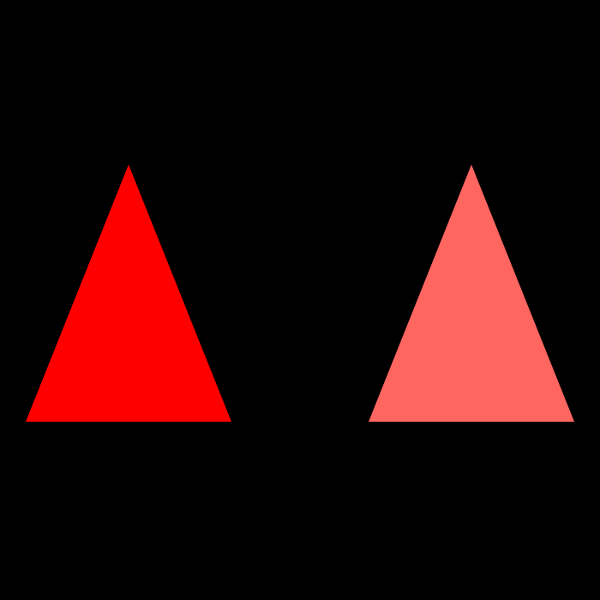
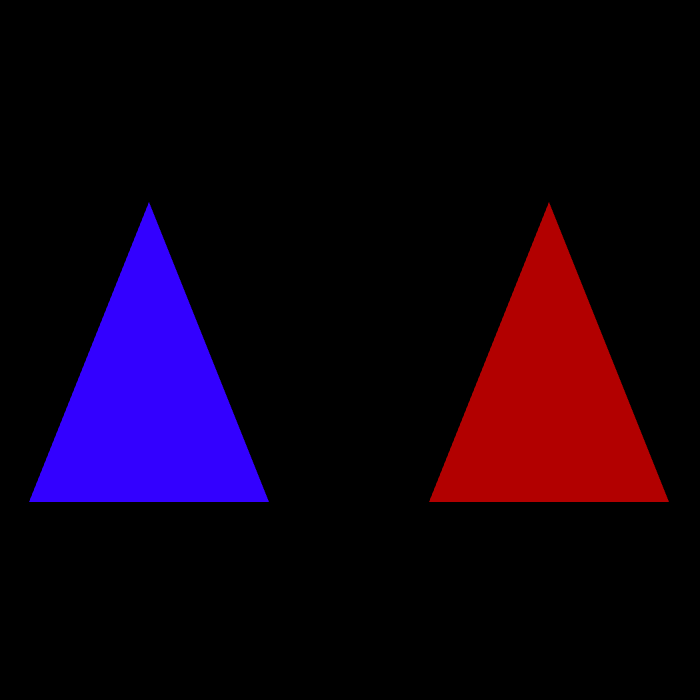
Use HSV to RGB conversion in shader modules tutorial

Changed region(s): [[0.6, 0.27, 0.96, 0.72], [0.03, 0.27, 0.39, 0.72]]

diff --git a/examples/getting-started/shader-modules/app.js b/examples/getting-started/shader-modules/app.js
@@ -18,8 +18,10 @@ const vs1 = `
 `;
 
 const fs1 = `
+  uniform vec3 hsvColor;
+
   void main() {
-    gl_FragColor = color_getColor();
+    gl_FragColor = vec4(color_hsv2rgb(hsvColor), 1.0);
   }
 `;
 
@@ -32,18 +34,24 @@ const vs2 = `
 `;
 
 const fs2 = `
+  uniform vec3 hsvColor;
+
   void main() {
-    gl_FragColor = color_getColor() - 0.3;
+    gl_FragColor = vec4(color_hsv2rgb(hsvColor) - 0.3, 1.0);
   }
 `;
 
-// A module that injects a function into
-// the vertex shader
+// A module that injects a function into the fragment shader
+//  to convert from HSV to RGB colorspace
+// From http://lolengine.net/blog/2013/07/27/rgb-to-hsv-in-glsl
 const colorModule = {
   name: 'color',
   fs: `
-    vec4 color_getColor() {
-      return vec4(1.0, 0.0, 0.0, 1.0);
+    vec3 color_hsv2rgb(vec3 hsv) {
+      vec4 K = vec4(1.0, 2.0 / 3.0, 1.0 / 3.0, 3.0);
+      vec3 p = abs(fract(hsv.xxx + K.xyz) * 6.0 - K.www);
+      vec3 rgb = hsv.z * mix(K.xxx, clamp(p - K.xxx, 0.0, 1.0), hsv.y);
+      return rgb;
     }
   `
 };
@@ -67,6 +75,9 @@ export default class AppAnimationLoop extends AnimationLoop {
       attributes: {
         position: positionBuffer
       },
+      uniforms: {
+        hsvColor: [0.7, 1.0, 1.0]
+      },
       vertexCount: 3
     });
 
@@ -76,6 +87,9 @@ export default class AppAnimationLoop extends AnimationLoop {
       modules: [colorModule],
       attributes: {
         position: positionBuffer
+      },
+      uniforms: {
+        hsvColor: [1.0, 1.0, 1.0]
       },
       vertexCount: 3
     });

diff --git a/docs/get-started/shader-modules.md b/docs/get-started/shader-modules.md
@@ -16,8 +16,10 @@ const vs1 = `
 `;
 
 const fs1 = `
+  uniform vec3 hsvColor;
+
   void main() {
-    gl_FragColor = color_getColor();
+    gl_FragColor = vec4(color_hsv2rgb(hsvColor), 1.0);
   }
 `;
 
@@ -30,27 +32,33 @@ const vs2 = `
 `;
 
 const fs2 = `
+  uniform vec3 hsvColor;
+
   void main() {
-    gl_FragColor = color_getColor() - 0.3;
+    gl_FragColor = vec4(color_hsv2rgb(hsvColor) - 0.3, 1.0);
   }
 `;
 ```
 
-We have two vertex and fragment shader pairs: one will move vertices to the left, the other moves vertices to the right. Both fragment shaders call a `color_getColor` function to set the final fragment color, but `color_getColor` isn't defined anywhere, so these shaders will not compile as-is.
+We have two vertex and fragment shader pairs: one will move vertices to the left, the other moves vertices to the right. Both fragment shaders take an [HSV color](https://en.wikipedia.org/wiki/HSL_and_HSV) as input  call a `color_hsv2rgb` to convert it to RGB. But `color_hsv2rgb` isn't defined anywhere, so these shaders will not compile as-is.
 
-We define `color_getColor` in a shader module:
+We define `color_hsv2rgb` in a shader module:
 ```js
+// Taken from http://lolengine.net/blog/2013/07/27/rgb-to-hsv-in-glsl
 const colorModule = {
-  name: "color",
+  name: 'color',
   fs: `
-    vec4 color_getColor() {
-      return vec4(1.0, 0.0, 0.0, 1.0);
+    vec3 color_hsv2rgb(vec3 hsv) {
+      vec4 K = vec4(1.0, 2.0 / 3.0, 1.0 / 3.0, 3.0);
+      vec3 p = abs(fract(c.xxx + K.xyz) * 6.0 - K.www);
+      vec3 rgb = c.z * mix(K.xxx, clamp(p - K.xxx, 0.0, 1.0), c.y);
+      return rgb;
     }
   `
 };
 ```
 
-Shader modules are simply JavaScript objects that contain at least a name and some shader code. They can be defined to inject code into the vertex shader, the fragment shader or both. Our `colorModule` defines the `color_getColor` function used by our fragment shaders. It simply returns the color red. We're applying a shader module best practice of prefixing our function with the module name (`color_`) to avoid name collisions.
+Shader modules are simply JavaScript objects that contain at least a name and some shader code. They can be defined to inject code into the vertex shader, the fragment shader or both. Our `colorModule` defines the `color_hsv2rgb` function used by our fragment shaders. It converts the HSV value to RGB and returns it. We're applying a shader module best practice of prefixing our function with the module name (`color_`) to avoid name collisions.
 
 In the `onInitialize` method of our `AnimationLoop`, we create two models with different vertex and fragment shader sources, but both including the our `colorModule`.
 
@@ -69,6 +77,9 @@ In the `onInitialize` method of our `AnimationLoop`, we create two models with d
       attributes: {
         position: positionBuffer
       },
+      uniforms: {
+        hsvColor: [0.7, 1.0, 1.0]
+      },
       vertexCount: 3
     });
 
@@ -78,6 +89,9 @@ In the `onInitialize` method of our `AnimationLoop`, we create two models with d
       modules: [colorModule],
       attributes: {
         position: positionBuffer
+      },
+      uniforms: {
+        hsvColor: [1.0, 1.0, 1.0]
       },
       vertexCount: 3
     });
@@ -95,9 +109,9 @@ In `onRender`, we simply draw both models:
     model2.draw();
   }
 ```
-If all went well, two red triangles should be drawn side-by-side on the canvas, one slightly lighter than the other. See the live demo [here](/examples/getting-started/shader-modules).
+If all went well, a blue trangle and a red triangle should be drawn side-by-side on the canvas. See the live demo [here](/examples/getting-started/shader-modules).
 
-Shader modules allowed us to reuse the same functionality (in this case, simply setting the base color of a fragment) across multiple programs.
+Shader modules allowed us to define our HSL to RGB conversion function once and use it across multiple programs.
 
 The entire application should look like the following:
 ```js
@@ -132,11 +146,14 @@ const fs2 = `
   }
 `;
 
+// Taken from http://lolengine.net/blog/2013/07/27/rgb-to-hsv-in-glsl
 const colorModule = {
-  name: "color",
+  name: 'color',
   fs: `
-    vec4 color_getColor() {
-      return vec4(1.0, 0.0, 0.0, 1.0);
+    vec3 color_hsv2rgb(vec3 c) {
+      vec4 K = vec4(1.0, 2.0 / 3.0, 1.0 / 3.0, 3.0);
+      vec3 p = abs(fract(c.xxx + K.xyz) * 6.0 - K.www);
+      return c.z * mix(K.xxx, clamp(p - K.xxx, 0.0, 1.0), c.y);
     }
   `
 };
